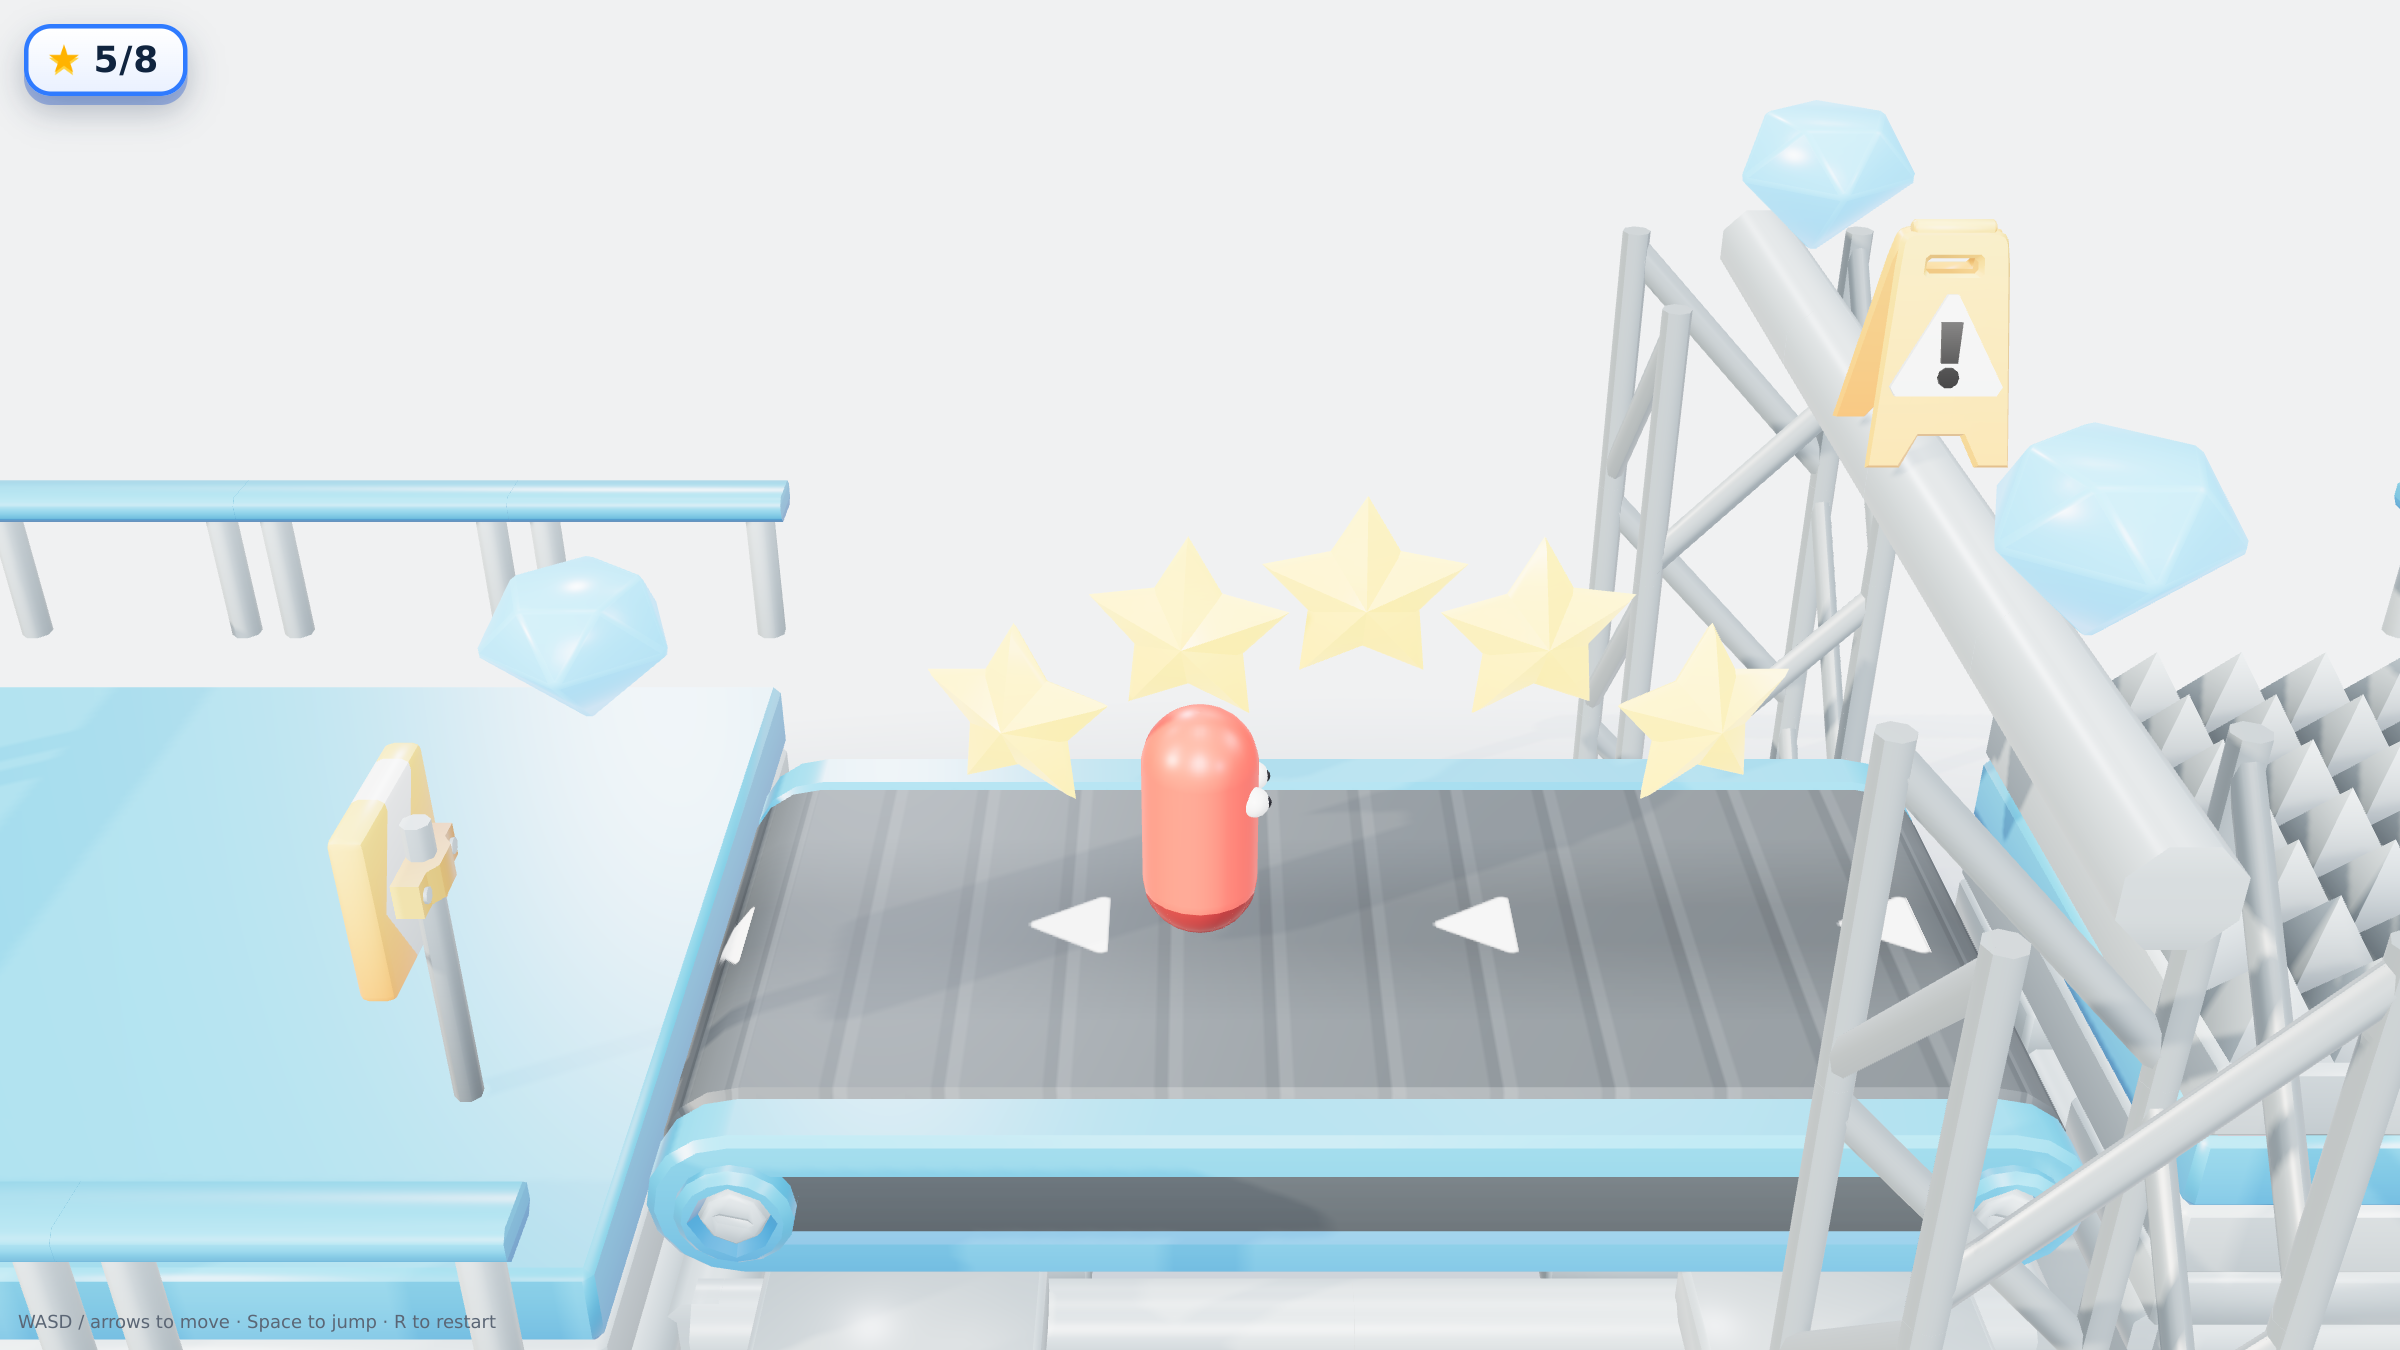
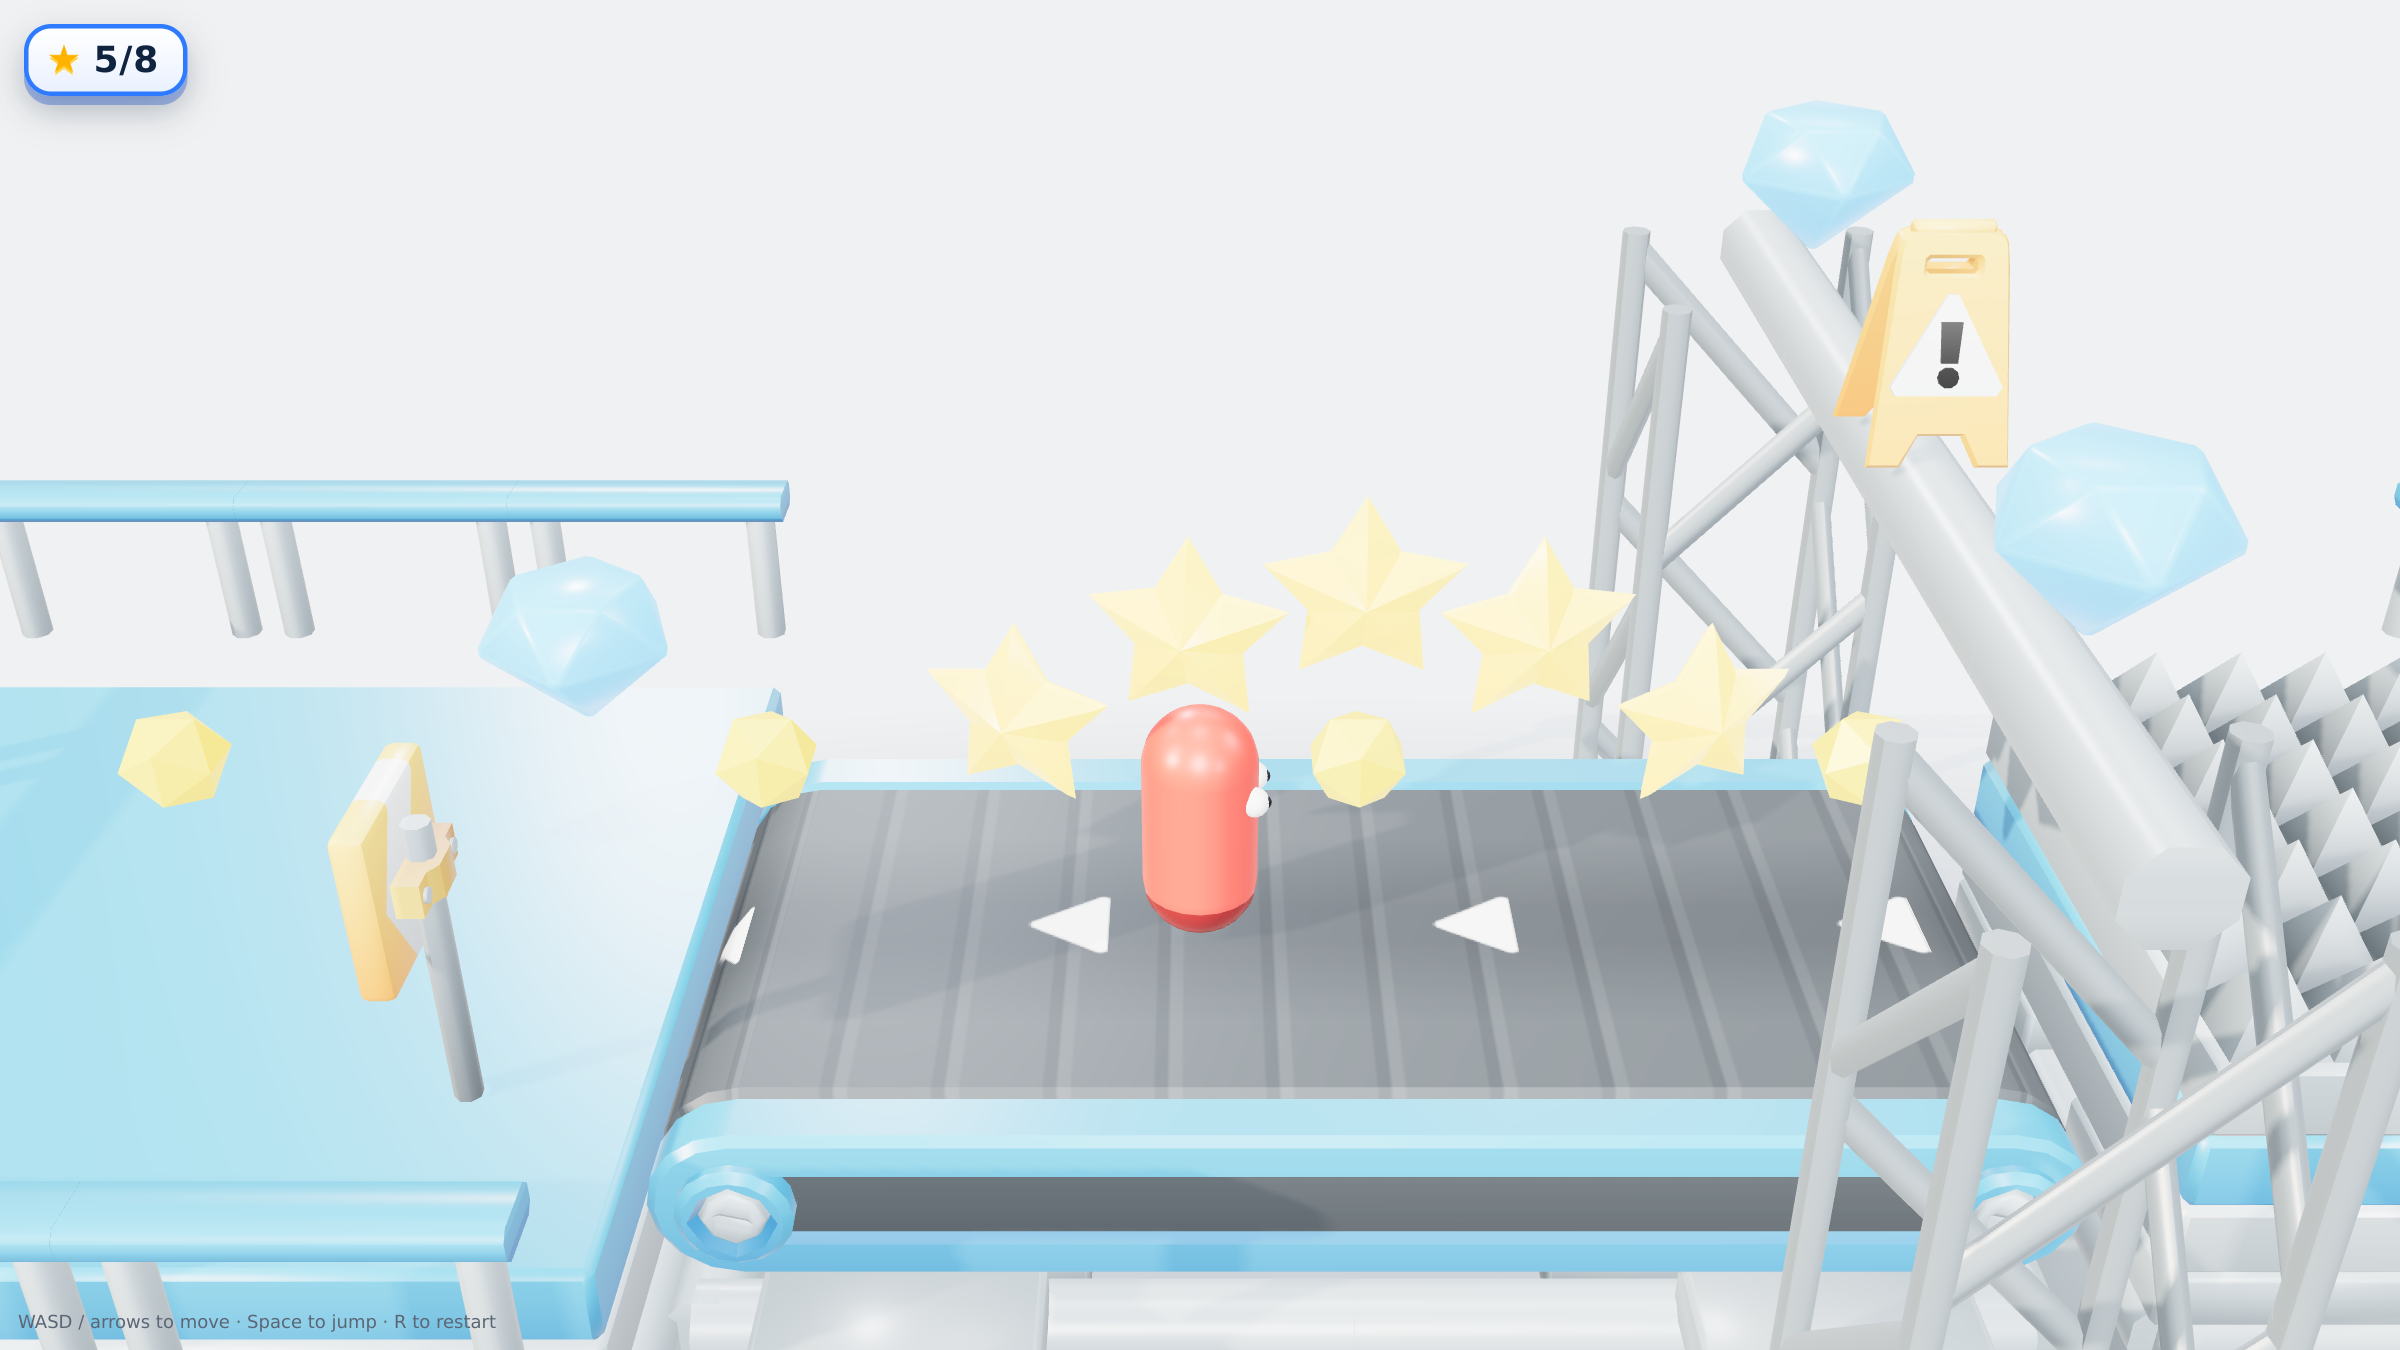
Scaffold juice layer: event bus + effect module contracts
Add a tiny event bus (events.js) wired through the game: the player emits
'jump', interactions emits 'coin'/'spring'/'death'/'finish'. game.js captures
the visual level, creates the event bus, and drives four effect modules each
frame. Coins are no longer hidden in interactions (the coin-juice effect owns
the collect pop). Sawblade tagged userData.spin for the world animation.

Stubs (no-op) with contracts for parallel agents: audio.js, effects/particles.js,
effects/worldAnim.js, effects/coins.js. Integration test still 10/10.

Claude-Session: https://claude.ai/code/session_01EMvVBB8ascX6EsQtEzbMDA

diff --git a/web/src/interactions.js b/web/src/interactions.js
@@ -1,25 +1,24 @@
-// INTERACTIONS — gameplay reactions to sensor overlaps. Owned by the INTERACTIONS+HUD agent.
+// INTERACTIONS — gameplay reactions to sensor overlaps. (Integrator-wired to emit events.)
 //
-// export function createInteractions({ physics, player, hud, world }) -> { update() }
-//   world = the object returned by buildColliders (has .coins: [{name, object3D}]).
+// export function createInteractions({ physics, player, hud, world, events }) -> { update() }
+//   world = buildColliders' return (.coins: [{name, object3D}]). events = src/events.js bus.
 //
-// update() is called every fixed step AFTER physics.stepOnce():
-//   const names = physics.sensorsOverlapping(player.collider);  // array of region names currently overlapping
-//   - 'death'     -> player.respawn(); hud.flashDeath();        (also covers the fall-off-the-world floor sensor)
-//   - 'spring'    -> player.launch(SPRING_SPEED ~ 16);          (debounce: only fire on ENTER, not every frame)
-//   - 'conveyor'  -> player.setConveyor({x: CONVEYOR_SPEED ~ 4, z:0});  else player.setConveyor(null)
-//   - 'coin:N'    -> if not already collected: hide world.coins[N].object3D (visible=false), hud.addCoin()
-//   - 'finish'    -> hud.win() once
-// Track collected coins / one-shot flags so each fires appropriately. Guard against player.collider being null.
+// Emits gameplay events so audio/particles/coin-juice can react without coupling:
+//   'jump'  (emitted by the player)        'coin'   {index, position, object3D}
+//   'spring'                               'death'  {position}
+//   'finish'
+// Coins are NOT hidden here anymore — the coin-juice effect plays a collect "pop"
+// then hides them. We still mark them collected + bump the HUD exactly once.
 
 const SPRING_SPEED = 16;
 const CONVEYOR_SPEED = 4;
 
-export function createInteractions({ physics, player, hud, world }) {
+export function createInteractions({ physics, player, hud, world, events }) {
   const coins = (world && world.coins) || [];
   const collected = new Set(); // coin indices already picked up
   let wasOnSpring = false; // debounce: only launch on the frame we ENTER the spring
   let won = false; // finish fires exactly once
+  const emit = (t, p) => events && events.emit && events.emit(t, p);
 
   return {
     update() {
@@ -47,8 +46,10 @@ export function createInteractions({ physics, player, hud, world }) {
           if (!Number.isNaN(idx) && !collected.has(idx)) {
             collected.add(idx);
             const entry = coins[idx];
-            if (entry && entry.object3D) entry.object3D.visible = false;
+            const obj = entry && entry.object3D;
+            const p = obj ? obj.position : player.translation();
             hud.addCoin();
+            emit('coin', { index: idx, object3D: obj, position: { x: p.x, y: p.y, z: p.z } });
           }
         }
       }
@@ -56,6 +57,8 @@ export function createInteractions({ physics, player, hud, world }) {
       // Death: respawn + flash. Takes precedence; skip the rest this frame so
       // we don't immediately re-launch/convey the just-respawned player.
       if (onDeath) {
+        const t = player.translation();
+        emit('death', { position: { x: t.x, y: t.y, z: t.z } });
         player.respawn();
         hud.flashDeath();
         wasOnSpring = false;
@@ -66,6 +69,7 @@ export function createInteractions({ physics, player, hud, world }) {
       // Spring: launch only on the frame we enter the pad (rising edge).
       if (onSpring && !wasOnSpring) {
         player.launch(SPRING_SPEED);
+        emit('spring');
       }
       wasOnSpring = onSpring;
 
@@ -80,6 +84,7 @@ export function createInteractions({ physics, player, hud, world }) {
       if (onFinish && !won) {
         won = true;
         hud.win();
+        emit('finish');
       }
     },
   };

diff --git a/web/src/game.js b/web/src/game.js
@@ -7,25 +7,38 @@ import { createPlayer } from './player.js';
 import { createFollowCamera } from './followCamera.js';
 import { createHUD } from './hud.js';
 import { createInteractions } from './interactions.js';
+import { createEvents } from './events.js';
+import { createAudio } from './audio.js';
+import { createParticles } from './effects/particles.js';
+import { createWorldAnim } from './effects/worldAnim.js';
+import { createCoinJuice } from './effects/coins.js';
 
 // Playable entry: visual level + Rapier physics + character + camera + HUD + interactions.
 async function start() {
   const { scene, camera, renderer, controls } = createScene();
   if (controls) controls.enabled = false; // follow camera drives the view in-game
 
-  await buildVisualLevel(scene);
+  const level = await buildVisualLevel(scene);
 
   const physics = await initPhysics();
   const world = buildColliders(physics, scene); // { spawn, coins }
+  const events = createEvents();
   const input = createInput();
-  const player = createPlayer(scene, physics, input, world.spawn);
+  const player = createPlayer(scene, physics, input, world.spawn, events);
   // Camera directly behind (+Z) and above so its yaw is 0: the strip reads
   // left->right and "right" maps to world +X with no diagonal drift on the
   // narrow decks. (An angled offset.x makes movement diagonal and walks the
   // pill off the edge of the conveyor.)
   const followCam = createFollowCamera(camera, player, { offset: { x: 0, y: 7.5, z: 11.5 }, lookBias: { x: 0, y: 1, z: 0 } });
   const hud = createHUD(world.coins ? world.coins.length : 0);
-  const interactions = createInteractions({ physics, player, hud, world });
+  const interactions = createInteractions({ physics, player, hud, world, events });
+
+  // Juice: synthesized SFX + visual effects, all driven off the event bus / scene.
+  const audio = createAudio(events);
+  const particles = createParticles(scene, events);
+  const worldAnim = createWorldAnim(level);
+  const coinJuice = createCoinJuice(world, events);
+  if (audio && audio.resume) audio.resume();
 
   hud.onRestart(() => {
     player.respawn();
@@ -60,7 +73,7 @@ async function start() {
   // Test/debug hooks. step()/testWarp()/pause() let the headless integration
   // test drive the sim deterministically (headless Chromium throttles rAF).
   window.__game = {
-    scene, camera, physics, player, world, hud, input, followCam,
+    scene, camera, physics, player, world, hud, input, followCam, events,
     pause() { simRunning = false; },
     resume() { simRunning = true; },
     step(n = 1) {
@@ -92,6 +105,11 @@ async function start() {
       }
       followCam.update(dt);
     }
+    // Visual juice advances every frame, independent of the sim-pause the
+    // headless test uses (so the showcase + screenshots stay animated).
+    particles.update(dt);
+    worldAnim.update(dt);
+    coinJuice.update(dt);
     renderer.render(scene, camera);
     requestAnimationFrame(frame);
   }

diff --git a/web/src/effects/worldAnim.js b/web/src/effects/worldAnim.js
@@ -1,0 +1,15 @@
+// WORLD ANIMATION — spinning sawblade + scrolling conveyor belt. Owned by the WORLD-ANIM agent.
+//
+// export function createWorldAnim(level) -> { update(dt) }
+//   `level` is the visual THREE.Group from buildVisualLevel.
+//   - SAWBLADE: traverse `level`; any object with userData.spin = { localY:true, speed }
+//     should spin in its own plane each frame via object.rotateY(speed*dt) (local Y is
+//     the disc normal even though the blade is tipped). Support a generic spin too.
+//   - CONVEYOR BELT: find mesh materials named 'threads' (the belt texture) in `level`;
+//     set material.map.wrapS = THREE.RepeatWrapping and advance material.map.offset.x
+//     each frame so the belt appears to move in the travel direction (+X). Remember to
+//     set map.needsUpdate / it updates via offset automatically. Tune speed to match the
+//     conveyor push (~belt moving toward +X). Cache the materials on first run.
+export function createWorldAnim(level) {
+  return { update() {} };
+}

diff --git a/web/src/effects/coins.js b/web/src/effects/coins.js
@@ -1,0 +1,13 @@
+// COIN JUICE — idle bob/spin + collect "pop". Owned by the COIN-JUICE agent.
+//
+// export function createCoinJuice(world, events) -> { update(dt) }
+//   world.coins: [{ name, object3D }] — glowing collectibles placed by colliders.js.
+//   IDLE: each still-visible, un-collected coin gently bobs (sine, ~±0.12 around its
+//     original Y) and slowly spins around Y. Capture each coin's base position once.
+//   COLLECT: on 'coin' {index, object3D}, play a quick pop on that coin — scale up
+//     (~1.6x) while fading/raising over ~0.18s, THEN set object3D.visible = false.
+//     (interactions.js no longer hides coins; this effect owns hiding them.)
+//   update(dt) drives the bob for idle coins and advances any in-progress pops.
+export function createCoinJuice(world, events) {
+  return { update() {} };
+}

diff --git a/web/src/props/hazards.js b/web/src/props/hazards.js
@@ -31,7 +31,10 @@ export async function build(level) {
   // boards) while the lower teeth (down to ≈1.2) disappear into the slot — only
   // a sliver pokes beneath the 1-cell deck, matching the samples' big floor saw.
   const sawCenterY = top - 0.4; // 4.6
-  await place(level, ['sawblade', 'neutral', SEG.landmark.cx, 0, sawCenterY, 0, 90, 0]);
+  const saw = await place(level, ['sawblade', 'neutral', SEG.landmark.cx, 0, sawCenterY, 0, 90, 0]);
+  // Tag for the world-animation effect: spin the blade in its own plane (local Y
+  // is the disc normal, regardless of the rx=90 tilt) via object.rotateY(speed*dt).
+  if (saw) saw.userData.spin = { localY: true, speed: 6 };
 
   // --- Spring launch on the bridge deck: red pad with a spring sitting in it ---
   await place(level, ['spring_pad', 'red', SEG.bridge.cx, 0, top]);

diff --git a/web/src/audio.js b/web/src/audio.js
@@ -1,0 +1,13 @@
+// AUDIO — synthesized sound effects via WebAudio. Owned by the AUDIO agent.
+//
+// export function createAudio(events) -> { resume(), dispose() }
+//   Subscribe to gameplay events and play short, pleasant synthesized SFX (no asset
+//   files): 'jump' (rising blip), 'coin' (bright two-note ping), 'spring' (boing),
+//   'death' (descending buzz/thud), 'finish' (little victory arpeggio).
+//   Lazily create one AudioContext; browsers block audio until a user gesture, so
+//   resume() the context on the first keydown/pointerdown (add a one-shot listener).
+//   Use oscillators + gain envelopes (and noise for death). Keep master volume modest
+//   (~0.2). Guard if WebAudio is unavailable (no throw in headless).
+export function createAudio(events) {
+  return { resume() {}, dispose() {} };
+}

diff --git a/web/src/events.js b/web/src/events.js
@@ -1,0 +1,22 @@
+// Tiny synchronous event bus connecting gameplay (player/interactions) to the
+// effects (audio, particles, coin-juice) without coupling them together.
+//   const events = createEvents();
+//   events.on('coin', ({ position }) => {...});
+//   events.emit('coin', { index, position, object3D });
+export function createEvents() {
+  const map = new Map(); // type -> Set<fn>
+  return {
+    on(type, fn) {
+      if (!map.has(type)) map.set(type, new Set());
+      map.get(type).add(fn);
+      return () => map.get(type)?.delete(fn);
+    },
+    emit(type, payload) {
+      const fns = map.get(type);
+      if (!fns) return;
+      for (const fn of fns) {
+        try { fn(payload); } catch (e) { console.error(`[events] ${type} handler:`, e); }
+      }
+    },
+  };
+}

diff --git a/web/src/effects/particles.js b/web/src/effects/particles.js
@@ -1,0 +1,12 @@
+// PARTICLES — bursts for death + coin pickup. Owned by the PARTICLES agent.
+//
+// export function createParticles(scene, events) -> { update(dt) }
+//   On 'death' {position}: a burst of ~16-24 small bits (reds/whites) that fly out,
+//     are pulled down by gravity, and fade/shrink out over ~0.6s.
+//   On 'coin' {position}: a small bright-yellow sparkle pop (~8 bits, quick).
+//   Use THREE.Points (a pooled BufferGeometry) or a small pool of meshes; advance in
+//   update(dt) and cull expired particles. Additive/no-shadow, lightweight. Keep a
+//   cap on live particles.
+export function createParticles(scene, events) {
+  return { update() {} };
+}
